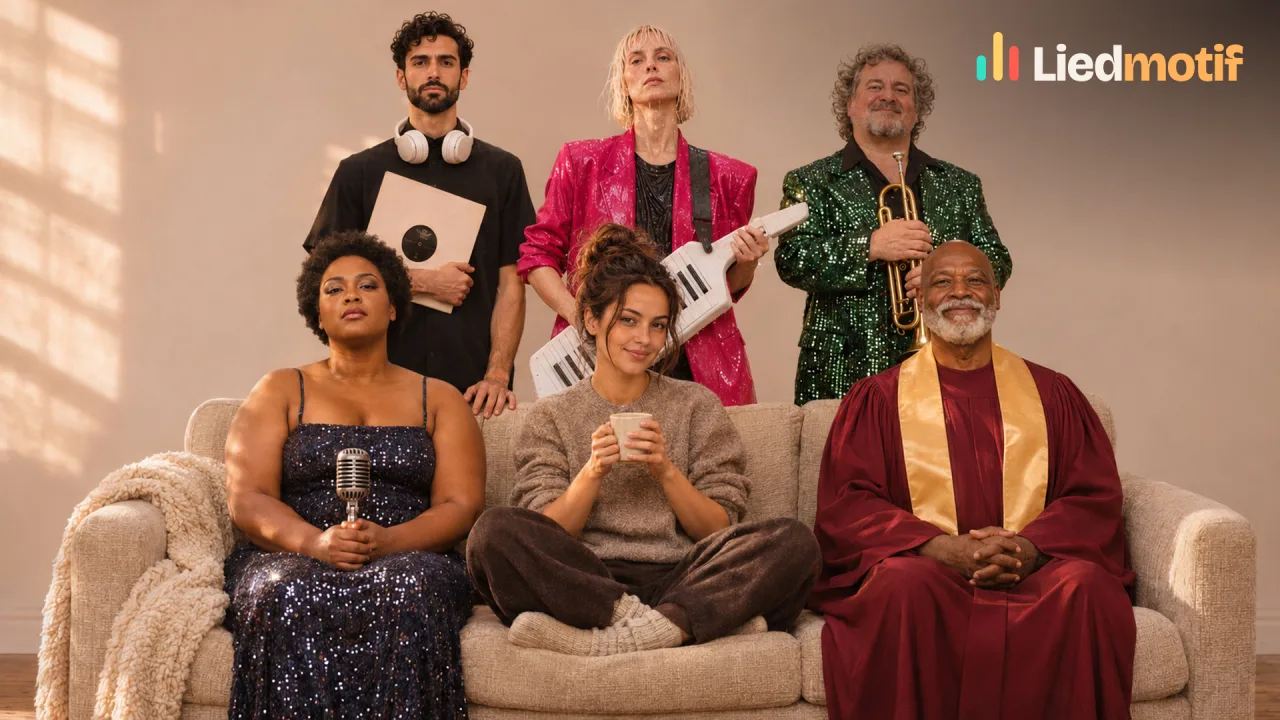
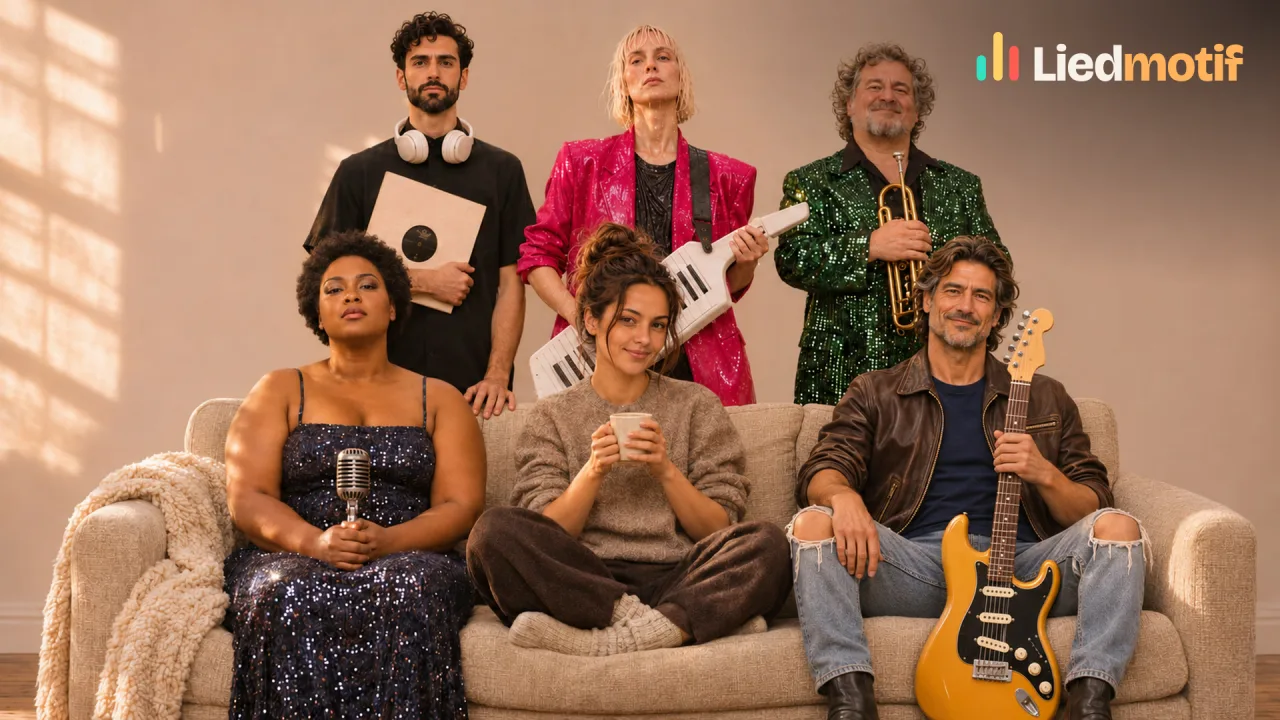
feat: label close name matches on the search screen
A search that missed everything came back with the closest names, but the screen still called them "Closest lyrics" and counted them on the tab badges as if they were exact matches. The label now says what the rows are, and the badges count only exact matches.

- Label a close name answer "No exact match for "…". Closest names:", keeping "Closest lyrics:" for Lyrics search
- Leave tab badges blank for a close-match answer
- Describe close name matches in the in-app docs snapshot
- Update the intro film poster image

diff --git a/apps/web/components/search/search-summary-labels-close-matches.test.ts b/apps/web/components/search/search-summary-labels-close-matches.test.ts
@@ -1,14 +1,14 @@
 // @vitest-environment jsdom
 
-// A Lyrics search that found no exact words answers with the closest lyric
-// lines. The summary line says so instead of counting "results", and the sort
-// selector stays away so the closest Track remains first, and a screen reader
-// hears the label with the results.
+// A search that found no exact words answers with the closest names (or, in
+// Lyrics search, the closest lyric lines). The summary line says so instead of
+// counting "results", the sort selector stays away so the closest row remains
+// first, and a screen reader hears the label with the results.
 
 import { createElement as h } from 'react';
 import { cleanup, render, screen } from '@testing-library/react';
 import { afterEach, describe, expect, it } from 'vitest';
-import type { SearchResponseData } from '@liedmotif/shared';
+import type { SearchPlaylistItem, SearchResponseData } from '@liedmotif/shared';
 import { SearchResults, SearchSummaryRow } from './search-results';
 import type { SearchQueryState } from './use-search-query';
 
@@ -27,6 +27,20 @@ function lyricsResponse(query: string, closeMatches: boolean, matchCount: number
   } as SearchResponseData;
 }
 
+function closeNamesResponse(query: string, playlists: SearchPlaylistItem[]) {
+  const group = <T>(items: T[]) => ({ items, matchCount: items.length, truncated: false });
+  return {
+    query,
+    scope: 'all',
+    sort: 'title',
+    lyrics: false,
+    closeMatches: true,
+    sessions: group([]),
+    tracks: group([]),
+    playlists: group(playlists),
+  } as SearchResponseData;
+}
+
 function renderSummary(data: SearchResponseData) {
   return render(h(SearchSummaryRow, { data, sort: 'title', onSortChange: () => {} }));
 }
@@ -38,6 +52,13 @@ describe('the Search summary line', () => {
     expect(container.textContent).toBe(
       'No exact match for “zu viert auf dem mnod”. Closest lyrics:',
     );
+    expect(screen.queryByRole('button', { name: /sort search results/i })).toBeNull();
+  });
+
+  it('labels close name matches the same way, without a sort selector', () => {
+    const { container } = renderSummary(closeNamesResponse('Rainy Sunday Joz', []));
+
+    expect(container.textContent).toBe('No exact match for “Rainy Sunday Joz”. Closest names:');
     expect(screen.queryByRole('button', { name: /sort search results/i })).toBeNull();
   });
 
@@ -85,5 +106,46 @@ describe('the Search results region', () => {
     rerender(view(lyricsResponse('zu viert auf dem mnod', true, 0)));
     expect(container.querySelector('[aria-live="polite"]')).toBe(region);
     expect(region!.textContent).toContain('No exact match for “zu viert auf dem mnod”.');
+  });
+
+  it('shows close name groups under All without a See all action or a member-match line', () => {
+    const playlist: SearchPlaylistItem = {
+      id: '00000000-0000-4000-8000-000000000001',
+      name: 'Focus & Flow',
+      kind: 'user',
+      listedInPlaylists: true,
+      trackCount: 12,
+      totalDurationSeconds: 2400,
+      downloadableTrackCount: 12,
+      coverImageId: null,
+      mosaicCoverImageIds: [],
+      soleMemberTrackCount: 0,
+      soleMemberDeletedTrackCount: 0,
+      containsTrack: null,
+      sharedAt: null,
+      pinnedAt: null,
+      createdAt: '2026-11-01T10:00:00.000Z',
+      updatedAt: '2026-11-01T10:00:00.000Z',
+      matchContext: { field: 'name', snippet: 'Focus & Flow' },
+      memberMatchCount: 0,
+      owner: null,
+    };
+    render(
+      h(SearchResults, {
+        state: { query: 'Fokus und Flow', scope: 'all', sort: 'title', lyrics: false },
+        results: results(closeNamesResponse('Fokus und Flow', [playlist])),
+        onScopeChange: () => {},
+        onSortChange: () => {},
+        onEngage: () => {},
+        onTrackRemoved: () => {},
+      }),
+    );
+
+    expect(screen.getByText(/Closest names:/)).toBeTruthy();
+    const row = screen.getByRole('link', { name: /Focus & Flow/ });
+    expect(row.textContent).toContain('12 TRACKS');
+    expect(row.textContent).not.toMatch(/MATCH/);
+    expect(screen.queryByRole('button', { name: /^Show / })).toBeNull();
+    expect(screen.queryByRole('heading', { name: /Sessions|Tracks/ })).toBeNull();
   });
 });

diff --git a/apps/web/components/search/use-search-query.test.ts b/apps/web/components/search/use-search-query.test.ts
@@ -144,6 +144,31 @@ describe('useSearchQuery', () => {
     );
   });
 
+  it('records no group counts from a close-match answer: the badges count exact matches only', async () => {
+    const requests = captureFetches();
+    const { result } = renderHook(() => useSearchQuery(state({ query: 'Rainy Sunday Joz' })));
+    await waitFor(() => expect(requests).toHaveLength(1));
+    const closeGroup = { items: [], matchCount: 2, truncated: false };
+    await act(async () =>
+      requests[0]!.respond({
+        ok: true,
+        data: {
+          query: 'Rainy Sunday Joz',
+          scope: 'all',
+          sort: 'relevance',
+          lyrics: false,
+          closeMatches: true,
+          sessions: closeGroup,
+          tracks: closeGroup,
+          playlists: closeGroup,
+        },
+      }),
+    );
+
+    expect(result.current.data?.closeMatches).toBe(true);
+    expect(result.current.counts).toEqual({ sessions: null, tracks: null, playlists: null });
+  });
+
   it('lyrics mode requests ?lyrics=1 immediately and drops the stale group counts', async () => {
     const requests = captureFetches();
     const { result, rerender } = renderHook(({ s }) => useSearchQuery(s), {

diff --git a/apps/web/components/search/search-results.tsx b/apps/web/components/search/search-results.tsx
@@ -181,13 +181,14 @@ export function SearchSummaryRow({
   sort: SearchSort;
   onSortChange: (sort: SearchSort) => void;
 }) {
-  // Close matches stay closest first, so they get a label and no sort
-  // selector; the URL's sort applies again once the words match exactly.
+  // Close matches (names, or lyric lines in Lyrics search) stay closest first,
+  // so they get a label and no sort selector; the URL's sort applies again once
+  // the words match exactly.
   if (data.closeMatches) {
     return (
       <p className="mb-2 mt-3 text-[13px] text-muted">
-        No exact match for <span className="font-semibold text-paper">“{data.query}”</span>. Closest
-        lyrics:
+        No exact match for <span className="font-semibold text-paper">“{data.query}”</span>. Closest{' '}
+        {data.lyrics ? 'lyrics' : 'names'}:
       </p>
     );
   }

diff --git a/apps/web/components/search/use-search-query.ts b/apps/web/components/search/use-search-query.ts
@@ -71,6 +71,8 @@ export function useSearchQuery(state: SearchState, revision = 0): SearchQuerySta
       }
       setError(null);
       setData(result.data);
+      // A close-match answer's group sizes are rows shown, not exact matches.
+      if (result.data.closeMatches) return;
       setCounts((current) => ({
         sessions: result.data.sessions?.matchCount ?? current.sessions,
         tracks: result.data.tracks?.matchCount ?? current.tracks,

diff --git a/apps/web/docs-snapshot/features.md b/apps/web/docs-snapshot/features.md
@@ -404,7 +404,7 @@ The **Search** page looks across sessions, tracks and playlists, in titles, genr
 - **Tabs:** **All**, **Sessions**, **Tracks** and **Playlists** each show an exact count.
 - **Sort:** **Relevance**, **Newest First** or **Title A–Z**.
 - **Search Lyrics** searches only sung words, so only tracks can match, and instrumentals never do.
-- **Typos in lyrics:** when a lyrics search finds no exact match, for example because of a typo, it shows the tracks with the closest lyric lines instead, closest first.
+- **Typos:** when a search finds nothing at all, for example because of a typo or "und" for "&", it shows the sessions, tracks and playlists whose names are spelled most like your words instead, up to 5 of each, closest first, under "No exact match … Closest names:". A lyrics search shows the tracks with the closest lyric lines instead. Close matches aren't sorted and the tabs don't count them.
 - **Matches:** each result names the field that matched and highlights your words.
 - **Recent:** searches you acted on stay in your browser for next time.
 
